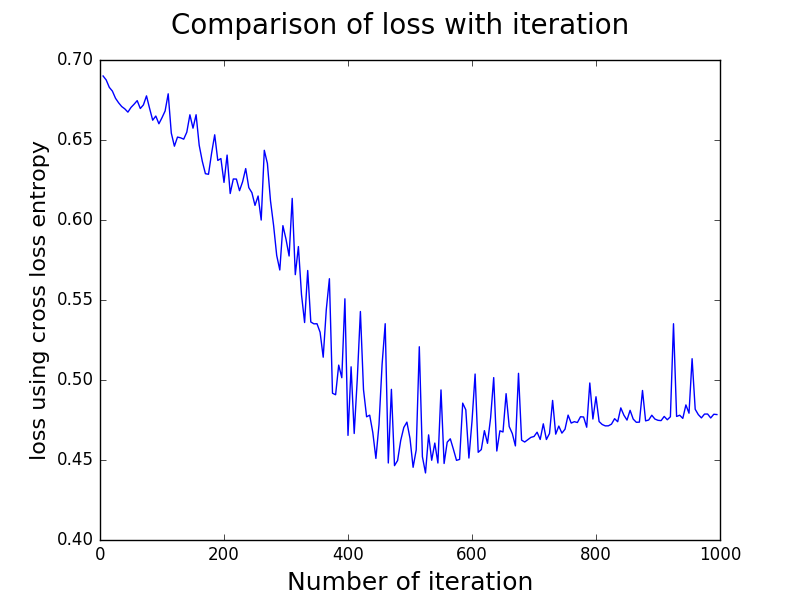
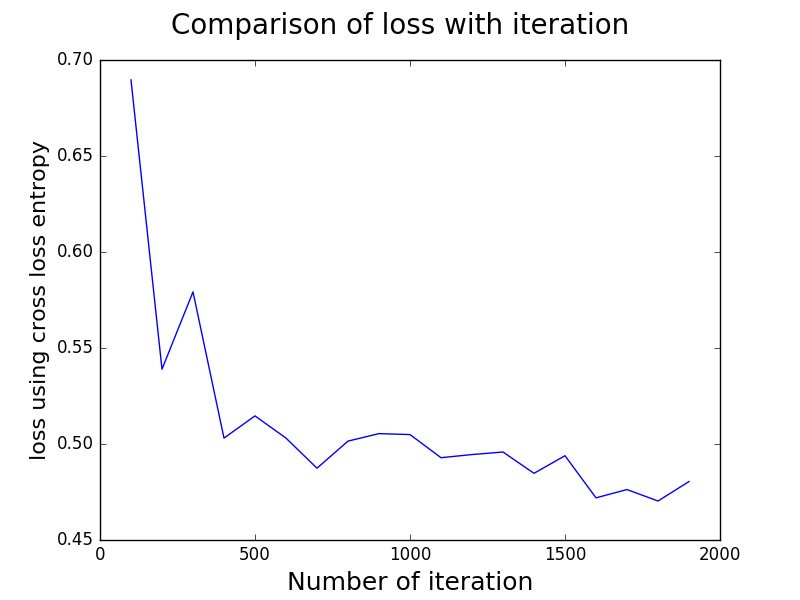
Final file of Neural Network

diff --git a/Neural_Net_final.py b/Neural_Net_final.py
@@ -1,0 +1,266 @@
+import numpy as np
+import matplotlib.pyplot as plt
+import timeit
+
+########Training data processing#########
+np.seterr(invalid='ignore')    #ignoring NaN type warning
+#file = raw_input("Please enter file name with extention:")
+data = np.loadtxt("hw2_data4.txt")
+num_examples = int(len(data))   # training set size
+num_of_features = int(len(data[0]))
+np.random.shuffle(data)         #Data shuffling as part of data preprocessing
+X=[]                            #Training data feature set value
+y = []                          #Training data labels
+no_of_iteartion = []
+loss = []
+iteration = []
+
+print "Number of rows in file is: " + str(num_examples)
+for i in range(0,num_examples):
+    #X.append([data[i,0],data[i,1],data[i,2]])
+    X.append([data[i,j] for j in range(num_of_features-1)])
+
+# define training set
+X = np.asarray(X)
+#standardization of training data for better result
+#To standardize the data over each column
+#X = (X - np.mean(X, axis=0)) / np.std(X, axis=0, ddof=1)
+#####################################
+#Normalization of training data
+X = (X-np.min(X))/(np.max(X)-np.min(X))
+#####################################
+#Training data class labels
+for i in range(0,num_examples):
+    if data[i,num_of_features-1] == 1: #class 1 which is 1
+        y.append(0)
+    elif(data[i,num_of_features-1] == 2):
+        y.append(1) # class 2 which is 2
+y = np.array(y).astype(int)
+#Preprocessing of training data ends here
+
+# Display plots inline and change default figure size
+# Display data plot for data set 1
+#%matplotlib inline
+#fig = plt.figure()
+#matplotlib.rcParams['figure.figsize'] = (10.0, 8.0)
+#plt.scatter(X[:,0], X[:,1], s=40, c=y, cmap=plt.cm.Spectral)
+#plt.show()
+#fig.suptitle('Data plot for Data set 1', fontsize=20)
+#plt.xlabel('x coordinate', fontsize=18)
+#plt.ylabel('y coordinate', fontsize=16)
+#fig.savefig('hw2_data1.png')
+
+nn_input_dim = num_of_features-1 # input layer dimensionality
+nn_output_dim = 2 # output layer dimensionality
+dropout = 0.5
+#fold = 10
+# Gradient descent parameters (picked by hand)
+epsilon = 0.001 # learning rate for gradient descent
+reg_lambda = 0.01 # regularization strength
+#mini_batch = 100 #size of minibatches for stochastic gradient desent
+neuron_layers = []
+#neuron_layers=[3,10,5,2]
+neuron_layers.append(nn_input_dim)
+hidden_layers = int(raw_input("Enter the number of hidden layers:"))
+for i in range(1,hidden_layers+1):
+    neuron_layers.append(int(raw_input("Number of neurons in hidden Layer " + str(i) + " ")))
+neuron_layers.append(nn_output_dim)
+no_of_layers = len(neuron_layers)
+
+mini_batch = int(raw_input("Please enter batch size for stochastic gradient descent in range 0-" + str(num_examples) + " "))
+fold = int(raw_input("Please enter fold size for testing in range 2-10 "))
+#sigmoid as activation function
+def sigmoid(x):
+    return np.reciprocal(1 + np.exp(-1*x))
+
+def sigmoid_derivative(x):
+    return x*(1-x)
+
+#tanh as activation function
+def tanh(x):
+    return np.tanh(x)
+
+def tanh_deriv(x):
+    return 1.0 - np.power(x, 2)
+
+#ReLU as activation function
+def ReLU(x):
+    return np.maximum(x,0.)
+
+def ReLU_deriv(x):
+    return np.array(x > 0.).astype(int)
+
+###Timer Start here###
+start = timeit.default_timer()
+
+class NeuralNetwork:
+    def __init__(self, activation='sigmoid'):
+        if activation == 'sigmoid':
+           self.activation = sigmoid
+           self.activation_deriv = sigmoid_derivative
+        elif activation == 'tanh':
+           self.activation = tanh
+           self.activation_deriv = tanh_deriv
+        elif activation == 'relu':
+           self.activation = ReLU
+           self.activation_deriv = ReLU_deriv
+    # Helper function to evaluate the total loss on the dataset
+    def calculate_loss(self,model):
+        wt   =[0] * (no_of_layers-1)
+        bias =[0] * (no_of_layers-1)
+        z    =[0] * (no_of_layers-1)
+        a    =[0] * (no_of_layers-1)
+
+        # Forward propagation
+        for k in range(0, no_of_layers-1):
+            wt[k]=model["wt" + `k`]
+            bias[k]=model["bias" + `k`]
+            if k==0:
+                z[k]=X.dot(wt[k]) + bias[k]
+                a[k]=self.activation(z[k])
+            else:
+                z[k]=a[k-1].dot(wt[k]) + bias[k]
+                a[k]=self.activation(z[k])
+
+        softmax_value = np.exp(z[no_of_layers-2])
+        probability = softmax_value / np.sum(softmax_value, axis=1, keepdims=True)
+
+        cross_entropy = -np.log(probability[range(len(X)), y])
+        total_loss = np.sum(cross_entropy)
+
+        return 1./len(X) * total_loss
+
+    # Helper function to predict an output (0 or 1)
+    def predict(self, model, x):
+        wt  = [0] * (no_of_layers-1)
+        bias =[0] * (no_of_layers-1)
+        z    =[0] * (no_of_layers-1)
+        a    =[0] * (no_of_layers-1)
+
+        # Forward propagation
+        for k in range(0, no_of_layers-1):
+            wt[k]=model["wt" + `k`]
+            bias[k]=model["bias" + `k`]
+            if k==0:
+                z[k]=x.dot(wt[k]) + bias[k]
+                a[k]=self.activation(z[k])
+            else:
+                z[k]=a[k-1].dot(wt[k]) + bias[k]
+                a[k]=self.activation(z[k])
+
+        softmax_value = np.exp(z[no_of_layers-2])
+        probs = softmax_value / np.sum(softmax_value, axis=1, keepdims=True)
+        return np.argmax(probs, axis=1)
+
+    def build_model(self, training_x, training_y, num_passes=2000, print_loss=False):
+
+            ###DECLARING NEURAL NETWORK MODEL#####
+        model = {}
+        wt  = [0] * (no_of_layers-1)
+        bias =[0] * (no_of_layers-1)
+        z    =[0] * (no_of_layers-1)
+        a    =[0] * (no_of_layers-1)
+        delta=[0] * (no_of_layers-1)
+        dwt  =[0] * (no_of_layers-1)
+        dbias=[0] * (no_of_layers-1)
+        ##INITATE RANDOM SEED########
+        np.random.seed(0)
+
+
+        for i in range(0, no_of_layers-1):
+            wt[i]=np.random.randn(neuron_layers[i], neuron_layers[i+1]) / np.sqrt(neuron_layers[i])
+            bias[i]=np.zeros((1, neuron_layers[i+1]))
+
+        for i in xrange(0, num_passes):
+            #stochastic gardient desent
+            X_stoch = []
+            y_stoch = []
+            training_x_length = len(training_x)
+            B = np.random.randint(training_x_length,size=mini_batch)
+            X_stoch = training_x[B,:]
+            y_stoch = training_y[B]
+            #print X_stoch
+            #print y_stoch
+            # Forward propagation
+
+            for k in range(0, no_of_layers-1):
+                if k==0:
+                     #masking for dropout at layer 1
+                    z[k]=   np.dot(training_x,wt[k]) + bias[k]
+                    a[k]=   self.activation(z[k])
+                    m2 = np.random.binomial(1, dropout, size=z[k].shape)
+                    a[k] *= m2
+                else:
+                    z[k]=   a[k-1].dot(wt[k]) + bias[k]
+                    a[k]=   self.activation(z[k])
+
+            softmax_value = np.exp(z[no_of_layers-2])
+            probs = softmax_value / np.sum(softmax_value, axis=1, keepdims=True)
+            temp=probs
+            # Backpropagation
+            for k in range(no_of_layers-2,0,-1):
+                if k== no_of_layers-2:
+                    temp[range(training_x_length), training_y] -= 1
+                    delta[k] = temp
+                    dwt[k] = np.dot( a[k-1].T,delta[k])
+                    dbias[k] = np.sum(delta[k], axis=0, keepdims=True)
+                else:
+                    delta[k] = delta[k+1].dot(wt[k+1].T) * self.activation_deriv(a[k])
+                    dwt[k] = np.dot(a[k-1].T, delta[k])
+                    dbias[k] = np.sum(delta[k], axis=0, keepdims=True)
+
+            #Dropout in back propagation m2 = binary mask
+            delta[0] = delta[1].dot(wt[1].T) * self.activation_deriv(a[0])*m2
+            dwt[0] = np.dot(training_x.T, delta[0])
+            dbias[0] = np.sum(delta[0], axis=0, keepdims=True)
+
+
+            #Updating weight and bias
+            for k in range(0, no_of_layers-1):
+                # Add regularization terms (b1 and b2 don't have regularization terms)
+                dwt[k] += reg_lambda * wt[k]
+                ###################################################################
+                wt[k] = wt[k] -epsilon * dwt[k]
+                bias[k] = bias[k] -epsilon * dbias[k]
+                model["wt" + `k`] = wt[k]
+                model["bias" + `k`] = bias[k]
+
+            if print_loss and i % 100 == 0:
+                iteration.append(i)
+                loss.append(self.calculate_loss(model))
+                print "Updated loss function value after %i iteration: %f" %(i, self.calculate_loss( model))
+
+        return model
+nn = NeuralNetwork('relu')
+#10 fold cross validation
+training_fold = (num_examples/fold)*(fold-1)
+training_data = X[:training_fold]
+training_label = y[:training_fold]
+testing_data = X[(training_fold+1):]
+testing_label = y[(training_fold+1):]
+
+length_test_data = len(testing_data)
+##
+model = nn.build_model(training_data, training_label, print_loss=True)
+count = 0.0
+num_of_test_data = 40
+for i in range(0,length_test_data):
+    result = nn.predict(model,testing_data[i])
+    print(i,result[0])
+    if result == testing_label[i]:
+        count = count + 1
+print count
+accuracy = (count/length_test_data)*100
+print "Accuracy is %f" %accuracy
+
+stop = timeit.default_timer()
+print "Total running time of Neural Network " + str(stop - start)
+
+#print iteration[1:]
+fig = plt.figure()
+plt.plot(iteration[1:],loss[1:])
+fig.suptitle('Comparison of loss with iteration', fontsize=20)
+plt.xlabel('Number of iteration', fontsize=18)
+plt.ylabel('loss using cross loss entropy', fontsize=16)
+fig.savefig('loss_function.png')
+plt.show()
